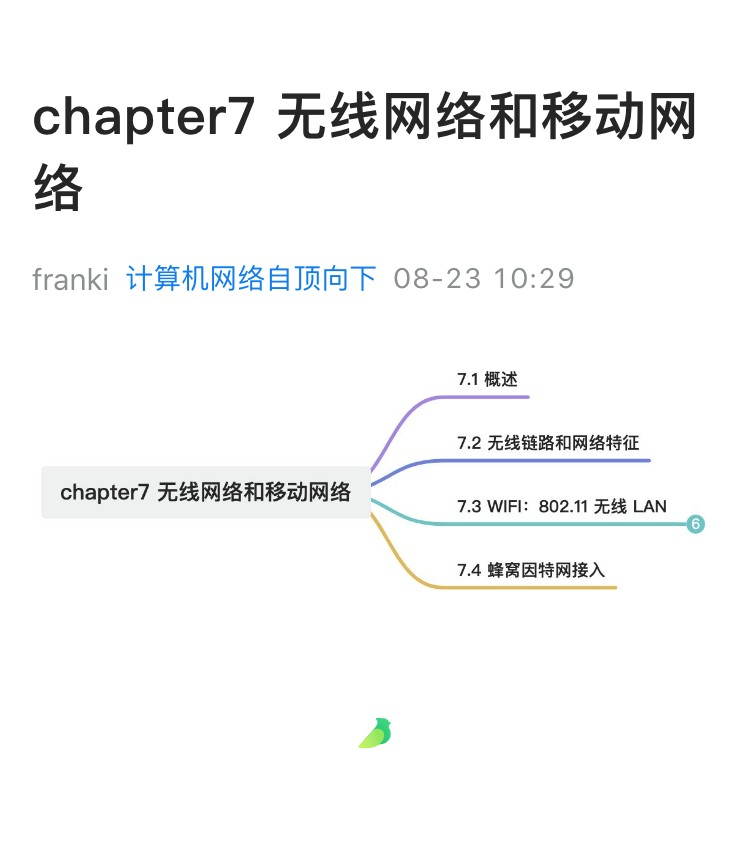
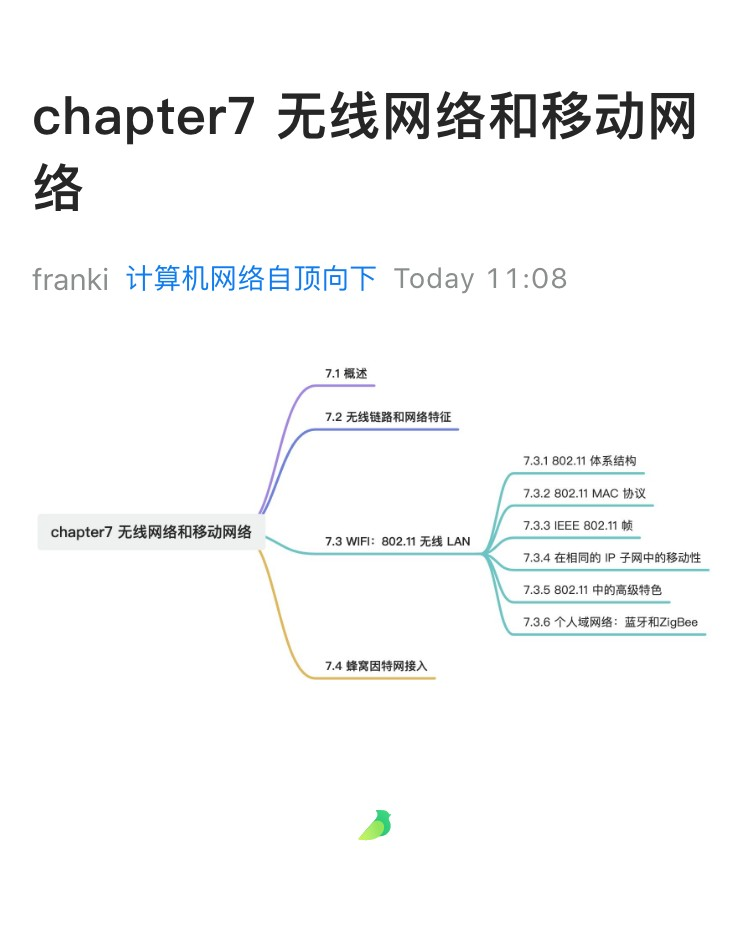
feat: add network chapter7

diff --git a/_posts/2023-07-19-计算机网络自顶向下-chapter7.md b/_posts/2023-07-19-计算机网络自顶向下-chapter7.md
@@ -1,0 +1,16 @@
+---
+layout:     post
+title:      "计算机网络自顶向下 chapter7"
+date:       2023-07-19
+subtitle:   ""
+author:     "franki"
+header-img: ""
+catalog: true
+tags:
+    - Network
+    - 计算机网络
+---
+
+### 计算机网络自顶向下 chapter7
+
+![chapter7](/images/posts/network/chapter7.jpg)
